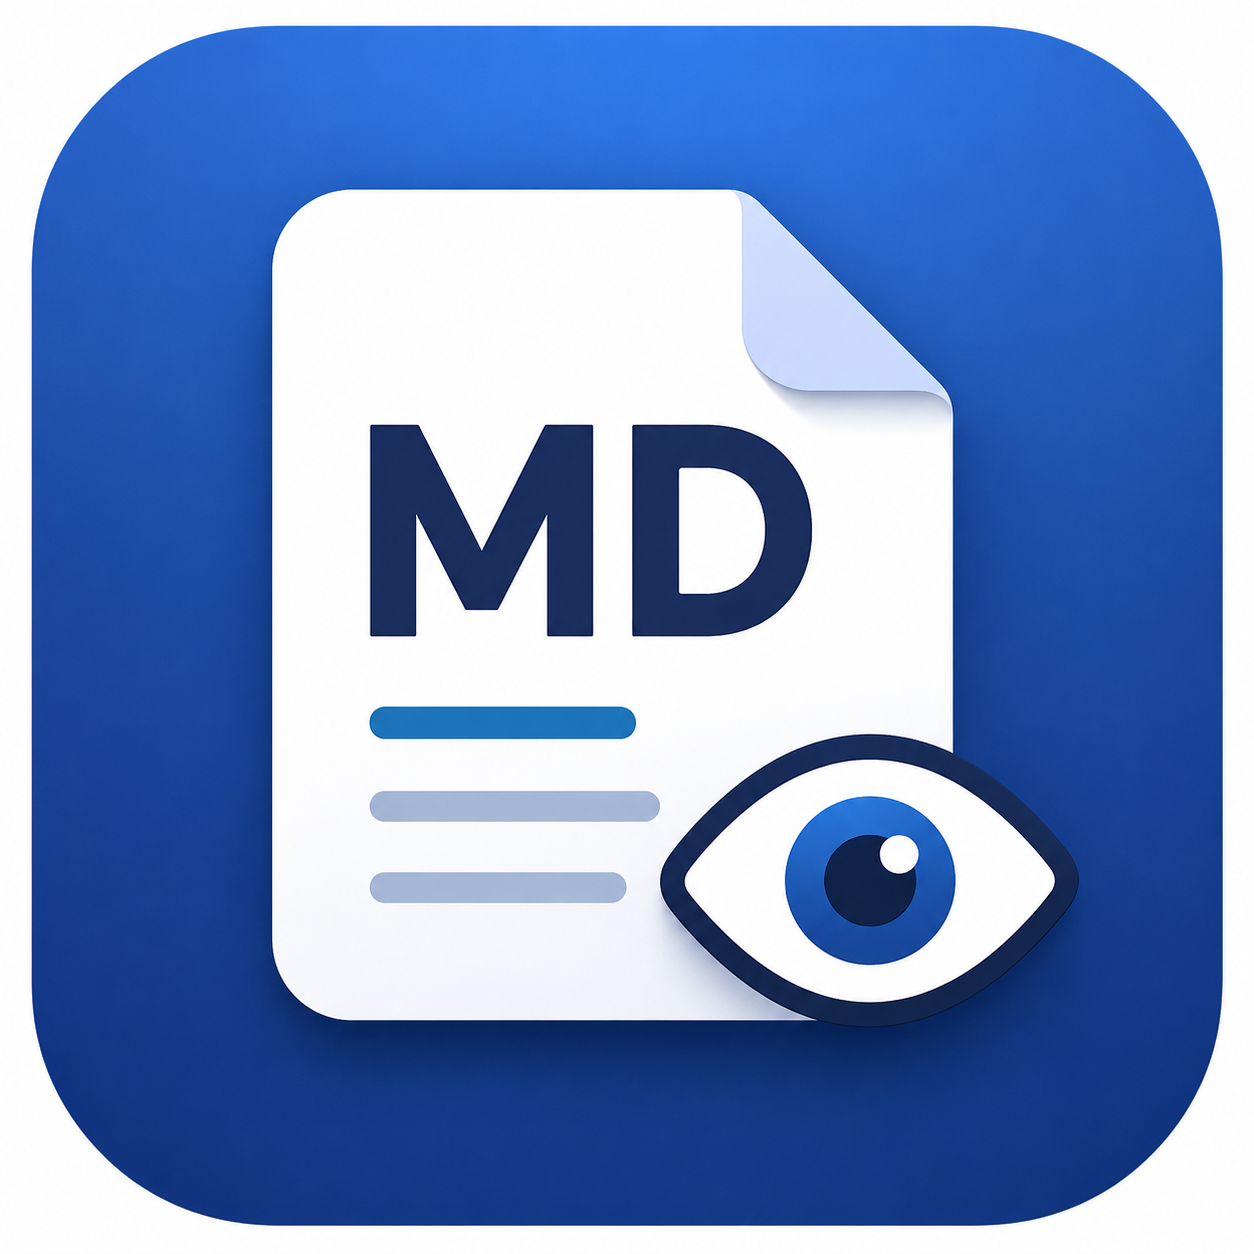
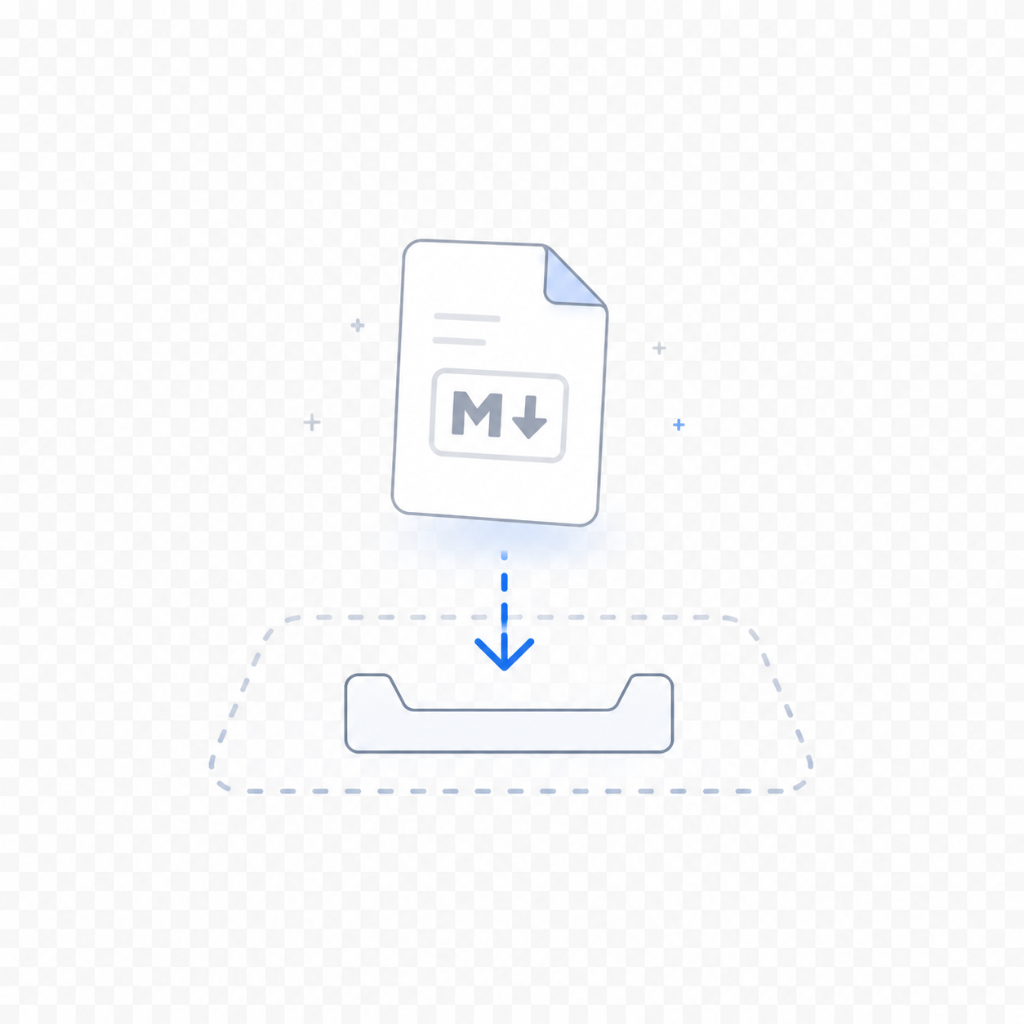
design: update empty state placeholder image and styling in md-editor.html

diff --git a/apps/md-editor.html b/apps/md-editor.html
@@ -1055,6 +1055,12 @@
     height: 100%; display: flex; flex-direction: column; align-items: center; justify-content: center;
     gap: var(--space-sm); color: var(--fgColor-muted); padding: var(--space-2xl);
   }
+  .reader-empty img {
+    max-width: 260px;
+    height: auto;
+    margin-bottom: var(--space-xs);
+    opacity: 0.85;
+  }
   .reader-empty .big { font-size: 22px; color: var(--fgColor-default); font-weight: var(--ui-fontWeight-semibold); }
   .reader-empty .sub { font-size: var(--ui-fontSize-lg); max-width: 420px; text-align: center; line-height: 1.6; }
   .reader-empty kbd {
@@ -1164,6 +1170,7 @@
   <div class="workspace-area">
     <div class="preview-container" id="preview-container">
       <div class="reader-empty" id="reader-empty">
+        <img src="../assets/md-file-reader.png" alt="Drop in your markdown" />
         <div class="big">Drop in your markdown</div>
         <div class="sub">Click <strong>Open folder</strong> to load every <code>.md</code> in a directory, drop files anywhere on this window, or use <kbd>j</kbd>/<kbd>k</kbd> to move between files once loaded.</div>
       </div>